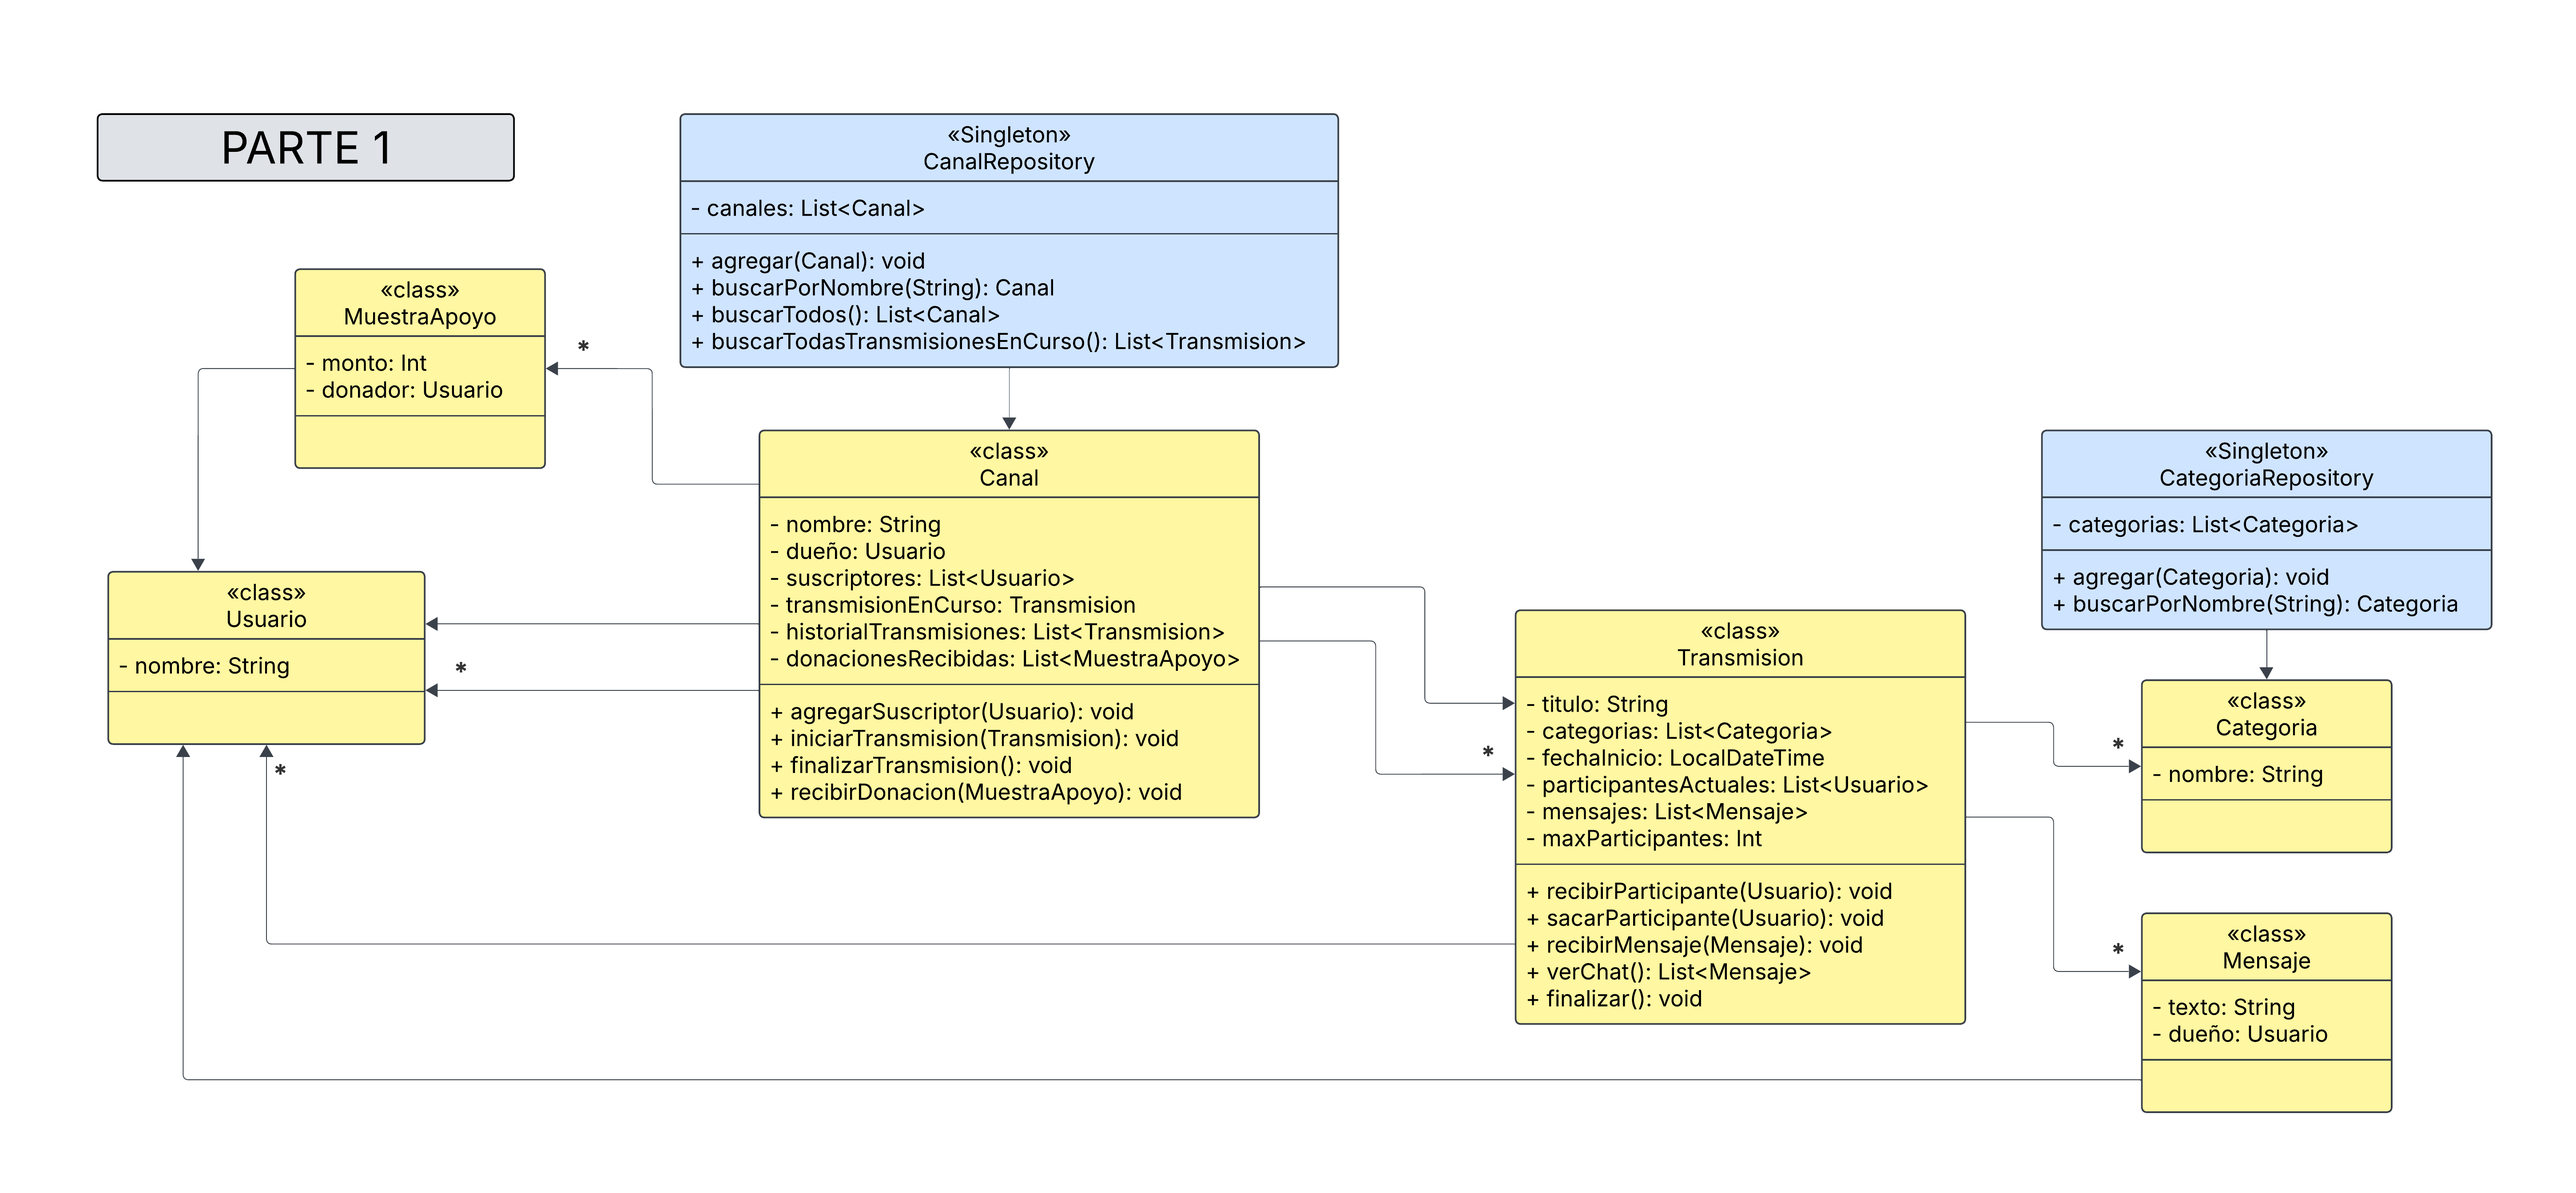
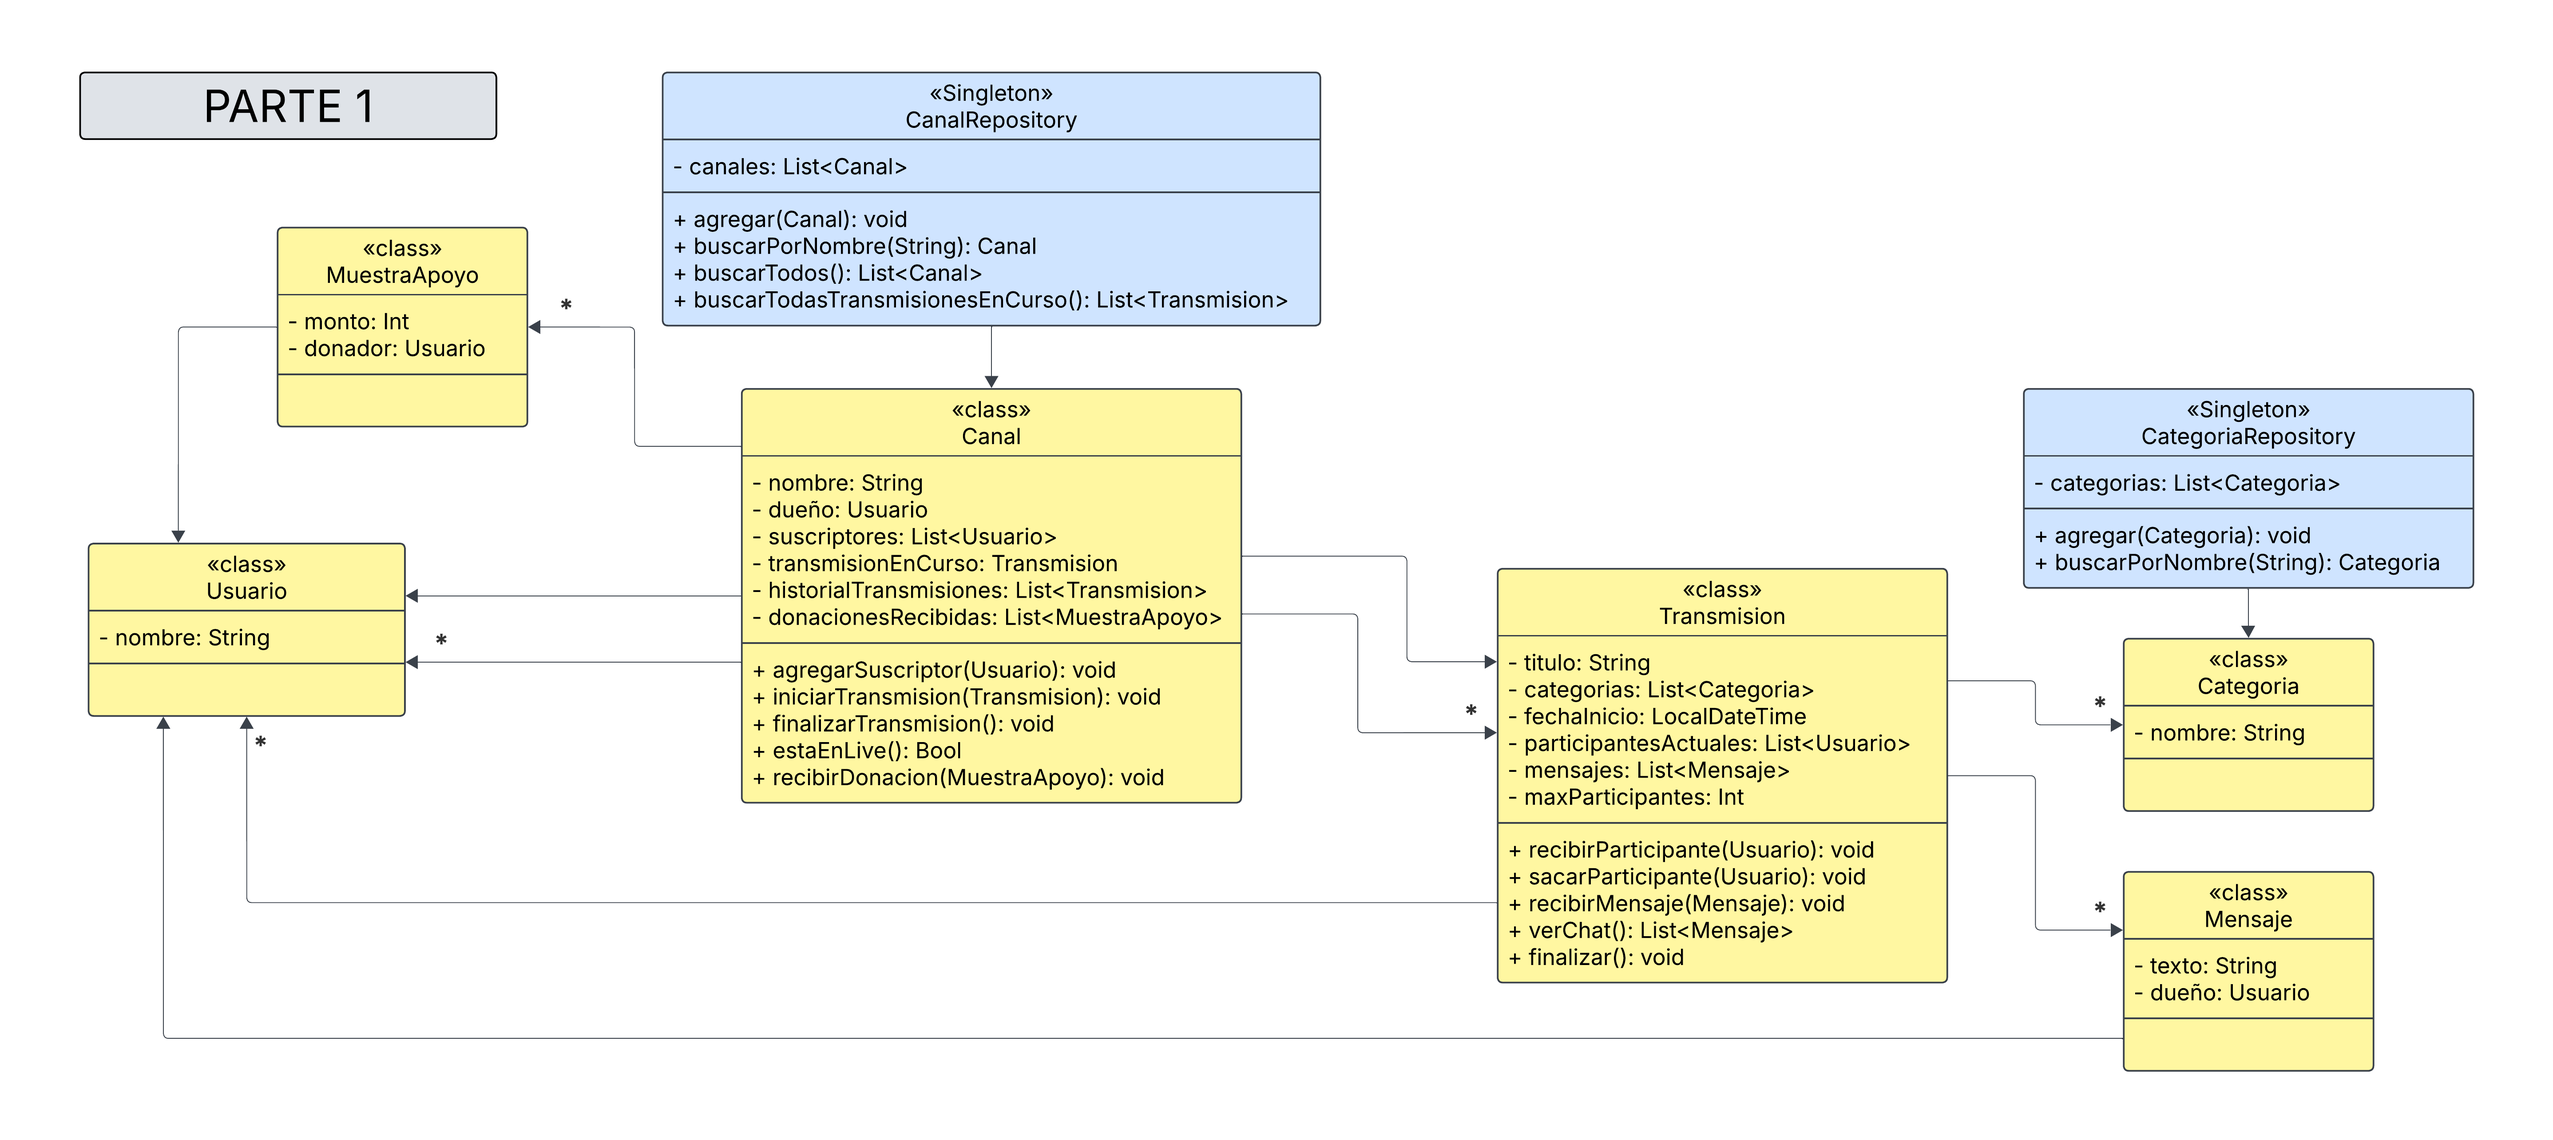
agrego los requerimientos en forma de test y actualizo el diagrama de clases

diff --git a/src/test/java/contextoTest.java b/src/test/java/contextoTest.java
@@ -1,0 +1,126 @@
+import static org.junit.jupiter.api.Assertions.assertEquals;
+import static org.junit.jupiter.api.Assertions.assertFalse;
+import static org.junit.jupiter.api.Assertions.assertTrue;
+
+import dominio.Canal;
+import dominio.Categoria;
+import dominio.Mensaje;
+import dominio.MuestraApoyo;
+import dominio.Transmision;
+import dominio.Usuario;
+import java.util.List;
+import org.junit.jupiter.api.BeforeEach;
+import org.junit.jupiter.api.Test;
+import persistencia.CanalRepository;
+
+public class contextoTest {
+  private Categoria rpg;
+  private Categoria retro;
+  private CanalRepository repoCanales;
+  private Usuario felix;
+  private Mensaje primerMensajeFelix;
+  private Mensaje segundoMensajeFelix;
+
+  @BeforeEach
+  void configuracionInicial() {
+    rpg = new Categoria("RPG");
+    retro = new Categoria("Retro");
+    repoCanales = CanalRepository.getInstancia();
+    felix = new Usuario("Felix");
+    primerMensajeFelix= new Mensaje("....", felix);
+    segundoMensajeFelix = new Mensaje("....", felix);
+  }
+
+  @Test
+  public void primerRequerimiento() {
+    Usuario eric = new Usuario("Eric Huanto");
+    Canal canalEric = new Canal("Gaming de disparos", eric);
+
+    assertEquals(eric, canalEric.getDueño());
+    //Verificamos que eric sea el dueño del canal
+  }
+
+  @Test
+  public void segundoRequerimiento() {
+    Usuario eric = new Usuario("Eric Huanto");
+    Canal canalEric = new Canal("Gaming de disparos", eric);
+    Transmision transmision = new Transmision("Counter Strike 2", List.of(rpg, retro));
+
+    canalEric.iniciarTransmision(transmision);
+    assertTrue(canalEric.estaEnLive());
+    //primera prueba para ver si está en live
+
+    canalEric.finalizarTransmision();
+    assertFalse(canalEric.estaEnLive());
+    //segunda prueba para ver si cerro su live
+  }
+
+  @Test
+  public void tercerRequerimientos() {
+    Usuario eric = new Usuario("Eric Huanto");
+    Canal canalEric = new Canal("Gaming de disparos", eric);
+    Transmision transmision = new Transmision("Counter Strike 2", List.of(rpg, retro));
+    Transmision transmision2 = new Transmision("Popply play time cap 5", List.of(retro));
+
+    canalEric.iniciarTransmision(transmision);
+    canalEric.finalizarTransmision();
+    canalEric.iniciarTransmision(transmision2);
+    canalEric.finalizarTransmision();
+
+    assertEquals(List.of(transmision, transmision2), canalEric.getHistorialTransmisiones());
+    //primera prueba para ver el historial de transmisiones
+
+    List<Canal> canalesCreados = repoCanales.buscarTodos();
+    assertEquals(List.of(), canalesCreados);
+    //segunda prueba para listar los canales
+    //Nota: ahora está vacío y eso está bien, porque quien se encarga de guardar los canales en el repo es controller, y como no tenemos ningún controller, está bien que devuelva vacío
+
+    List<Transmision> transmisionesEnCurso = repoCanales.buscarTodasTransmisionesEnCurs();
+    assertEquals(List.of(), transmisionesEnCurso);
+    //tercera prueba para listar las transmisiones en curso
+    //Nota: análogo al de arriba no contamos con un controller que registre en el repo los canales
+    //Observación: se podría haber usado un repo de transmisiones para esto
+  }
+
+  @Test
+  public void cuartoRequerimiento() {
+    Usuario eric = new Usuario("Eric Huanto");
+    Canal canalEric = new Canal("Gaming de disparos", eric);
+
+    canalEric.agregarSuscriptor(felix);
+    assertEquals(List.of(felix), canalEric.getSuscriptores());
+    //primera prueba para registrar un suscriptor
+
+    canalEric.recibirDonacion(new MuestraApoyo(8));
+    assertEquals(1, canalEric.getDonacionesRecibidas().size());
+    //segunda prueba para registrar una muestra de apoyo anónima
+  }
+
+  @Test
+  public void quintoRequerimiento() {
+    Usuario eric = new Usuario("Eric Huanto");
+    Canal canalEric = new Canal("Gaming de disparos", eric);
+    Transmision transmision = new Transmision("Counter Strike 2", List.of(rpg, retro));
+
+    canalEric.iniciarTransmision(transmision);
+    transmision.recibirParticipante(felix);
+
+    assertEquals(List.of(felix), transmision.getParticipantesActuales());
+    //verificamos que aparezca como participante
+  }
+
+  @Test
+  public void sextoRequermiento() {
+    Usuario eric = new Usuario("Eric Huanto");
+    Canal canalEric = new Canal("Gaming de disparos", eric);
+    Transmision transmision = new Transmision("Counter Strike 2", List.of(rpg, retro));
+
+    canalEric.iniciarTransmision(transmision);
+    transmision.recibirMensaje(primerMensajeFelix);
+    transmision.recibirMensaje(segundoMensajeFelix);
+
+    assertEquals(List.of(primerMensajeFelix, segundoMensajeFelix), transmision.verChat());
+    //verificamos que la transmision reciba los mensajes
+  }
+
+}

diff --git a/src/main/java/persistencia/CanalRepository.java b/src/main/java/persistencia/CanalRepository.java
@@ -13,11 +13,11 @@ public class CanalRepository {
     this.canales = new ArrayList<>();
   }
 
-  public static CanalRepository getInstance() {
+  public static CanalRepository getInstancia() {
     return INSTANCE;
   }
-  // Esta función se usa después de crear un canal para el usuario, en el controller o si somos más puristas en el service.
-  public void agregar(Canal canal) {
+
+  public void agregar(Canal canal) { //Esta función se usa después de crear un canal para el usuario, en el controller o si somos más puristas en el service.
     this.canales.add(canal);
   }
 
@@ -30,8 +30,8 @@ public class CanalRepository {
   }
 
   public List<Transmision> buscarTodasTransmisionesEnCurs() {
-    return this.canales.stream().map(c -> c.getTransmisionEnCurso())
-        .filter(t -> t != null)
+    return this.canales.stream().filter(c -> c.estaEnLive())
+        .map(c -> c.getTransmisionEnCurso())
         .toList();
   }
 

diff --git a/src/main/java/persistencia/CategoriaRepository.java b/src/main/java/persistencia/CategoriaRepository.java
@@ -4,6 +4,7 @@ import dominio.Categoria;
 import java.util.ArrayList;
 import java.util.List;
 
+// Esto lo usan los admins.
 public class CategoriaRepository {
   private final static CategoriaRepository INSTANCE = new CategoriaRepository();
   private final List<Categoria> categorias;
@@ -12,10 +13,10 @@ public class CategoriaRepository {
     this.categorias = new ArrayList<>();
   }
 
-  public static CategoriaRepository getInstance() {
+  public static CategoriaRepository getInstancia() {
     return INSTANCE;
   }
-  // Esta función lo usan los admins.
+
   public void agregar(Categoria categoria) {
     this.categorias.add(categoria);
   }

diff --git a/src/main/java/dominio/Canal.java b/src/main/java/dominio/Canal.java
@@ -27,6 +27,9 @@ public class Canal {
   }
 
   public void iniciarTransmision(Transmision transmision) {
+    if (estaEnLive())
+      throw new RuntimeException("No puedes iniciar Live, porque ya tiene una transmisión en curso");
+
     this.transmisionEnCurso = transmision;
   }
 
@@ -34,6 +37,10 @@ public class Canal {
     this.transmisionEnCurso.finalizar();
     this.historialTransmisiones.add(this.transmisionEnCurso);
     this.transmisionEnCurso = null;
+  }
+
+  public Boolean estaEnLive() {
+    return this.transmisionEnCurso != null;
   }
 
   public void recibirDonacion(MuestraApoyo muestraApoyo) {

diff --git a/src/main/java/dominio/MuestraApoyo.java b/src/main/java/dominio/MuestraApoyo.java
@@ -5,6 +5,8 @@ public class MuestraApoyo {
   private Usuario donador;
 
   public MuestraApoyo(int monto, Usuario donador) {
+    if (monto <= 0 || monto > 10)
+      throw new RuntimeException("Monto Incorrecto");
     this.monto = monto;
     this.donador = donador;
   }

diff --git a/src/main/java/dominio/Transmision.java b/src/main/java/dominio/Transmision.java
@@ -3,7 +3,9 @@ package dominio;
 import java.time.LocalDateTime;
 import java.util.ArrayList;
 import java.util.List;
+import lombok.Getter;
 
+@Getter
 public class Transmision {
   private String titulo;
   private List<Categoria> categorias;

diff --git a/README.md b/README.md
@@ -1,7 +1,7 @@
 # Parcial DDS 2025
 
 ## Consigna
-[📄 Ver la consigna en pdf](archivos/Primer-Parcial-2025-Parte-I.pdf)
+[📄 Ver contexto](archivos/Primer-Parcial-2025-Parte-I.pdf)
 
 ## Diagrama de clases
 ![Diagrama de clases](archivos/diagrama-clases.png)
